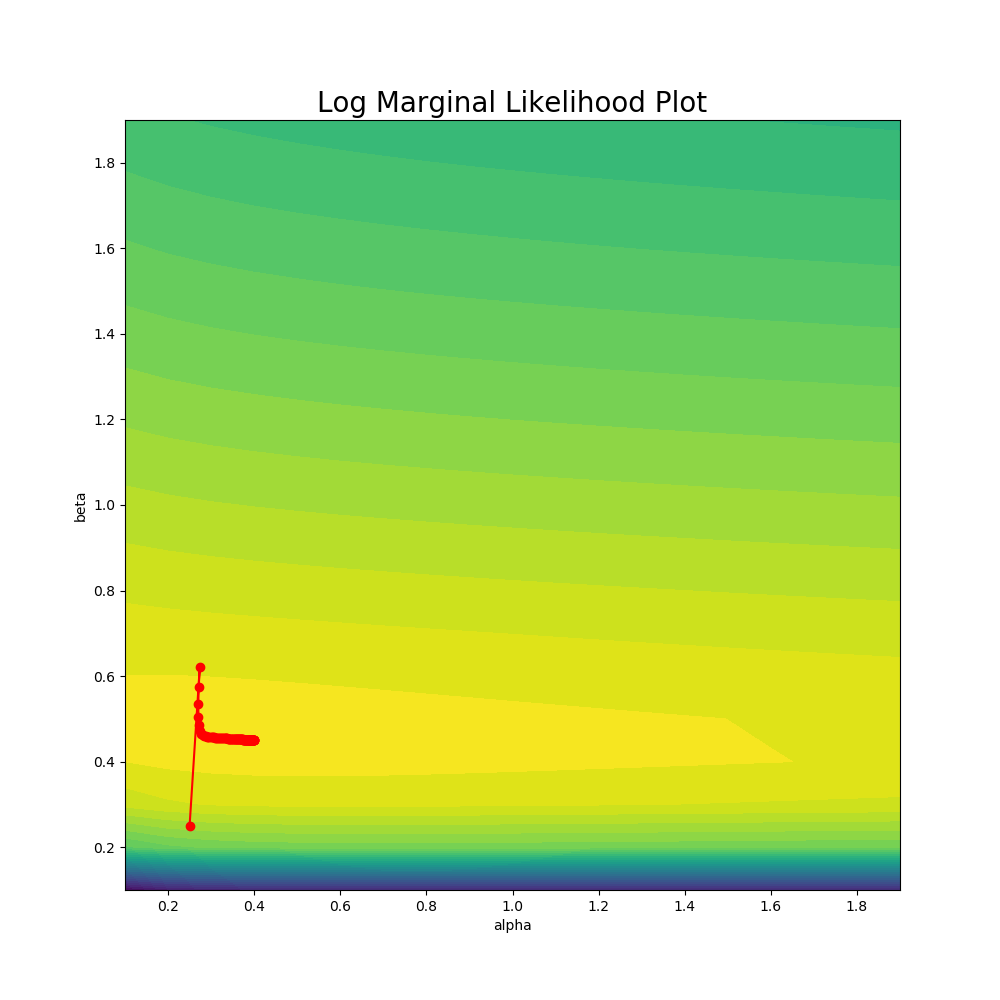
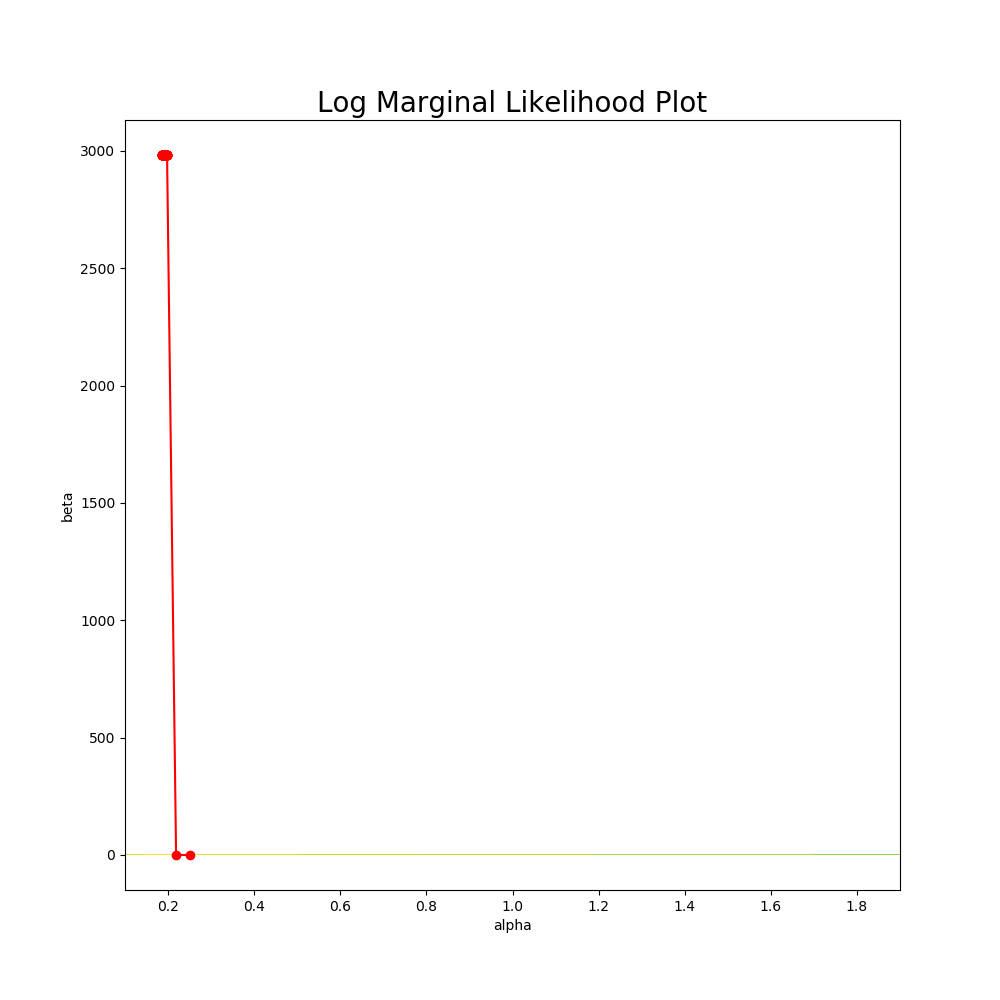
Log files for max params. Plot file for lmls against orders

diff --git a/trigonometric_grad_descent.py b/trigonometric_grad_descent.py
@@ -1,0 +1,112 @@
+import numpy as np
+from answers import *
+import matplotlib.pyplot as plt
+
+
+# Trigonometric Design matrix of size N x (2K+1)
+def trigonometric_design_matrix(K, x):
+    phi = np.zeros((len(x), (2*K)+1))
+    for i in range(len(x)):
+        phi[i][0] = 1.0
+        for j in range(1, K+1):
+            phi[i][(2*j)-1] = np.sin(2*np.pi*j*x[i])
+            phi[i][2*j] = np.cos(2*np.pi*j*x[i])
+    
+    return phi
+
+def gradient_descent(step_size, Phi, Y_values):
+    start_value = [0.1, 0.15]
+    x_i = start_value
+    max_iterations = 300
+    iteration = 0
+
+    prev_step_size1 = 1
+    prev_step_size2 = 1
+
+    steps = np.array([x_i])
+    while (iteration < max_iterations):
+        prev = x_i
+        grad = grad_lml(x_i[0], x_i[1], Phi, Y_values)
+
+        x_i = x_i + step_size * grad.T
+
+        steps = np.concatenate((steps, np.array([x_i])), axis=0)
+        iteration += 1
+        
+    return [steps, iteration, start_value]
+
+def plot_contour_with_grad_descent(K, step_size):
+    # Data
+    N = 25
+    X_train = np.reshape(np.linspace(0, 0.9, N), (N, 1))
+    Y_train = np.cos(10*X_train**2) + 0.1 * np.sin(100*X_train)
+
+    phi_train = trigonometric_design_matrix(K, X_train)
+
+    # X = alpha range
+    # Y = beta range
+    X = np.arange(0.001, 0.5, 0.05)
+    Y = np.arange(0.001, 0.5, 0.05)
+
+    X, Y = np.meshgrid(X, Y)
+
+    x_i = np.array([X[1,0], Y[1,0]])
+
+    values = np.zeros((len(X), len(Y)))
+
+    for i in range(len(X[:,0])):
+        for j in range(len(Y[0,:])):
+            x_i = np.array([X[i,j], Y[i,j]])
+            values[i,j] = lml(x_i[0], x_i[1], phi_train, Y_train)
+
+
+    [steps, iteration, x_i] = gradient_descent(step_size, phi_train, Y_train)
+
+    # print(iteration)
+    print(steps[0])
+    print("alpha = {0}, beta = {1}".format(steps[len(steps)-1, 0], steps[len(steps)-1, 1]))
+    
+    # Contour Plot of F2
+    fig = plt.figure(figsize=(10,10))
+    ax = fig.add_subplot(1, 1, 1)
+
+    CS = ax.contourf(X, Y, values, 30)
+
+    ax.plot(steps[:,0], steps[:,1], 'ro-')
+    plt.title('Log Marginal Likelihood Plot', fontsize=20)
+    plt.xlabel('alpha')
+    plt.ylabel('beta')
+
+    # Write important stuff to file
+    max_alpha = steps[len(steps)-1, 0]
+    max_beta = steps[len(steps)-1, 1]
+    maxes = "alpha = " + str(max_alpha) + ", beta = " + str(max_beta)
+
+    result_to_write = [x_i, maxes]
+    textfilename = '/home/kendeas93/Desktop/496-bayesian-regression_kt3118/trig_lml' + str(K) + '.txt'
+    with open(textfilename, 'w+') as f:
+        for i in range(len(result_to_write)):
+            f.write("%s\n" % str(result_to_write[i]))
+
+    # Save figure
+    filename = 'trig_lml' + str(K) + '.png'
+    fig.savefig(filename)
+
+    plt.show()
+
+# K, step size
+def main():
+    plot_contour_with_grad_descent(11, 0.0001)
+    pass
+# K_list = []
+# sigma_list = []
+# order_of_basis = []
+# for i in range(11):
+#     results = linear_regression_trigonometric_CV(i, X_train, Y_train)
+#     K_list.append(results[0])
+#     sigma_list.append(results[1])
+#     order_of_basis.append(i)
+
+if __name__ == "__main__":
+   # stuff only to run when not called via 'import' here
+   main()

diff --git a/plot_lmls_orders.py b/plot_lmls_orders.py
@@ -1,0 +1,65 @@
+import numpy as np
+from answers import *
+from trigonometric_grad_descent import trigonometric_design_matrix
+import matplotlib.pyplot as plt
+
+def readFile():
+	# Read all max values for alpha and beta from files
+	read_lines = []
+	# textfilename = '/home/kendeas93/Desktop/496-bayesian-regression_kt3118/trig_lml' + str(K) + '.txt'
+	for j in range(11):
+		textfilename = '/home/kendeas93/Desktop/496-bayesian-regression_kt3118/trig_lml' + str(j) + '.txt'
+		with open(textfilename, 'r') as f:
+		    f1 = f.readlines()
+		    for i in range(len(f1)):
+		    	if i == 1:
+		    		x = f1[i].replace("alpha = ", "")
+		    		x = x.replace(" beta = ", "")
+		    		x = x.replace("\n", "")
+		    		g = x.split(",")
+		    		f = []
+		    		for k in range(2):
+		    			f.append(float(g[k]))
+		    		read_lines.append(f)
+
+	return read_lines
+
+def getMaxLML(max_params):
+	# Data
+	N = 25
+	X_train = np.reshape(np.linspace(0, 0.9, N), (N, 1))
+	Y_train = np.cos(10*X_train**2) + 0.1 * np.sin(100*X_train)
+
+	maxLML_list = []
+	for i in range(11):
+		alpha = max_params[i][0]
+		beta = max_params[i][1]
+		phi_train = trigonometric_design_matrix(i, X_train)
+		maxLML_list.append(lml(alpha, beta, phi_train, Y_train))
+
+	return maxLML_list
+
+def main():
+	max_params = readFile()
+	lml_max_values = getMaxLML(max_params)
+
+	# PLOTS
+	fig = plt.figure(figsize=(11,9))
+
+	order_of_basis = []
+	for i in range(11):
+	    order_of_basis.append(i)
+
+	plt.plot(order_of_basis, lml_max_values, 'r-')
+	plt.xlabel("Order of basis")
+	plt.ylabel("LML")
+	plt.title("Max LML against Order of Basis Functions")
+
+	fig.savefig('lml_against_orders.png')
+
+	plt.show()
+	pass
+
+if __name__ == "__main__":
+   # stuff only to run when not called via 'import' here
+   main()

diff --git a/polynomial_grad_descent.py b/polynomial_grad_descent.py
@@ -1,6 +1,14 @@
 import numpy as np
 from answers import *
-from polynomial import *
+import matplotlib.pyplot as plt
+
+def polynomial_design_matrix(K, x):
+    phi = np.zeros((len(x), K+1))
+    for j in range(K+1):
+        for i in range(len(x)):
+            phi[i][j] = x[i]**j
+    # print("phi shape = {0}".format(phi.shape))
+    return phi
 
 
 def gradient_descent(step_size, Phi, Y_values, tolerance):
